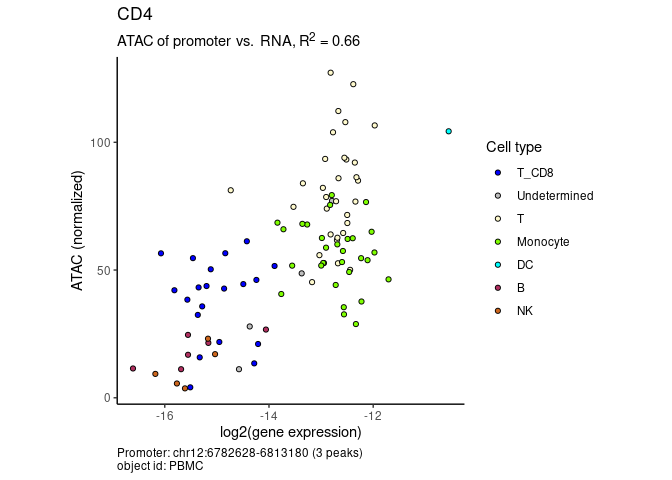
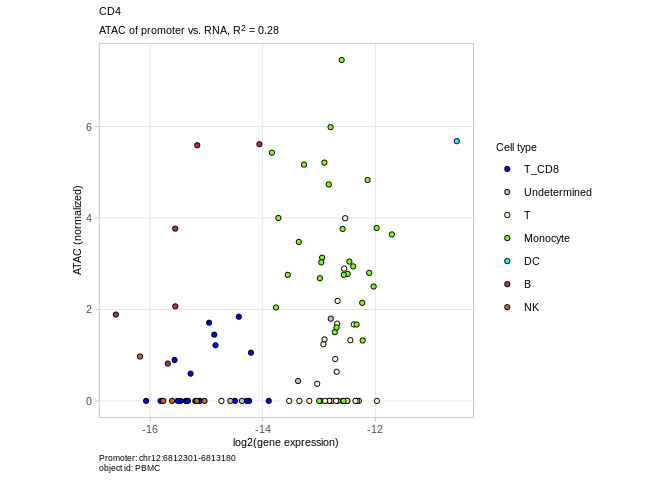
rendered README

diff --git a/README.md b/README.md
@@ -45,8 +45,45 @@ atac_sc
 
 ### Filter peaks by coverage and/or length
 
+Plot the length distribution:
+
+``` r
+plot_peak_length_distribution(atac_sc)
+```
+
+<img src="man/figures/README-plot-peak-len-1.png" width="100%" />
+
+Plot the coverage distribution:
+
+``` r
+plot_peak_coverage_distribution(atac_sc)
+```
+
+<img src="man/figures/README-plot-peak-cov-1.png" width="100%" />
+
+Filter:
+
 ``` r
 atac_sc <- filter_features(scatac = atac_sc, minimal_max_umi = 3, min_peak_length = 200, max_peak_length = 1000)
+#> • 8544 features were shorter than 200bp
+#> • 37160 features were longer than 1000bp
+#> • 676 features had a maximal UMI count less than 3
+#> ✔ Removed 46380 peaks out of 107829 (43%). The object is left with 61449 peaks.
+```
+
+Identify outliers using coverage density:
+
+``` r
+plot_peak_coverage_density(atac_sc) + geom_hline(yintercept = 250, linetype = "dashed", color = "red")
+```
+
+<img src="man/figures/README-plot-peak-density-1.png" width="100%" />
+
+``` r
+atac_sc <- filter_features(atac_sc, max_peak_density = 250)
+#> • 107 features had a peak density of more than 250 UMIs per 100bp
+#> ! Adding to previous ignore policy (46380 peaks).
+#> ✔ Removed 107 peaks out of 107829 (0%). The object is left with 61342 peaks (43%).
 ```
 
 ### Project RNA metacells
@@ -67,11 +104,10 @@ head(cell_to_metacell_pbmc_example)
 ``` r
 atac_mc <- project_atac_on_mc(atac_sc, cell_to_metacell_pbmc_example)
 #> ℹ 3198 cells (out of 11909) do not have a metacell and have been removed.
-#> ℹ Removed 142 all-zero peaks
-#> • Setting egc cell size to 939452.6 (the 0.1 quantile of metacell sizes)
-#> ✔ Created a new McATAC object with 97 metacells and 107687 ATAC peaks.
+#> • Setting egc cell size to 67733 (the 0.1 quantile of metacell sizes)
+#> ✔ Created a new McATAC object with 97 metacells and 61342 ATAC peaks.
 atac_mc
-#> <McATAC> object with 97 metacells and 107687 ATAC peaks from hg38.
+#> <McATAC> object with 97 metacells and 61342 ATAC peaks from hg38.
 #> id: "PBMC"
 #> description: "PBMC from a healthy donor - granulocytes removed through cell sorting (10k)"
 #> Slots include:
@@ -84,7 +120,7 @@ atac_mc
 
 ``` r
 atac_mc
-#> <McATAC> object with 97 metacells and 107687 ATAC peaks from hg38.
+#> <McATAC> object with 97 metacells and 61342 ATAC peaks from hg38.
 #> id: "PBMC"
 #> description: "PBMC from a healthy donor - granulocytes removed through cell sorting (10k)"
 #> Slots include:
@@ -94,8 +130,6 @@ atac_mc
 #>   • `@egc`: a numeric matrix which contains normalized metacell accessibility.
 #>   • `@fp`: a matrix showing for each peak (row) the relative enrichment of umis in log2 scale.
 ```
-
-See more at the [vignette](https://tanaylab.github.io/mcATAC/articles/mcATAC.html)
 
 ### Add metadata
 
@@ -113,8 +147,9 @@ atac_mc <- add_mc_rna(atac_mc, rna_mc_mat)
 
 ``` r
 plot_atac_rna(atac_mc, "CD4")
-#> → The gene "CD4" has 9 alternative promoters. Summing the ATAC signal from all of them.
-#> → The gene "CD4" has multiple (3) peaks within 500 bp of its TSS. Summing the ATAC signal from all of them.
+#> → The gene "CD4" has 9 alternative promoters.
 ```
 
 <img src="man/figures/README-atac-rna-scatter-1-1.png" width="100%" />
+
+See more at the [vignette](https://tanaylab.github.io/mcATAC/articles/mcATAC.html)
